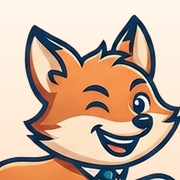
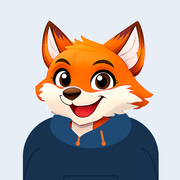
Нова маскота: Кико во тегет дуксер
Барање на Pece (25.11.2026): лисицата во дуксер (биста, без буква на градите) наместо
лисицата што трча — ист изглед на сајтот и на профилите на Facebook и Instagram.
Заменети public/kiko.png, favicon.png, apple-touch-icon.png и лисицата во og-image.png;
MASCOT_RATIO во src/brand.js. Бои, име и распоред се исти.

Claude-Session: https://claude.ai/code/session_01BRyZoi9Qj1x7wWqi3MHagk

diff --git a/src/brand.js b/src/brand.js
@@ -4,8 +4,9 @@
 //
 //  Цел на изгледот (22.11.2026): независен сајт за СПОРЕДБА — мирен, читлив,
 //  со јасни знаци на доверба. Да не личи на давател на брзи кредити.
-//  Лого: маскотата „Кико“ (лисица што трча, намигнува и се смешка — слика избрана од
-//  сопственикот) + името kikocredit.com со заоблени букви; тегет и портокалова.
+//  Лого: маскотата „Кико“ (лисица во тегет дуксер, биста — главата е од слика избрана од
+//  сопственикот, 25.11.2026; целна публика: млади) + името kikocredit.com со заоблени букви;
+//  тегет и портокалова.
 // ============================================================================
 
 export const BRAND = {
@@ -32,9 +33,9 @@ export const BRAND = {
 };
 
 // ── Лого ────────────────────────────────────────────────────────────────────
-// Маскотата е слика (public/kiko.png, проѕирна позадина). Контурата ѝ е тегет, затоа логото
-// секогаш стои на СВЕТЛА позадина. За икони се користи портретот (public/favicon.png).
-const MASCOT_RATIO = 1688 / 1243; // ширина / висина на public/kiko.png
+// Маскотата е слика (public/kiko.png, проѕирна позадина). Дуксерот е тегет, затоа логото
+// секогаш стои на СВЕТЛА позадина. За икони се користи само главата (public/favicon.png).
+const MASCOT_RATIO = 148 / 200; // ширина / висина на public/kiko.png
 export const mascotImg = (height = 46) => `<img src="/kiko.png" width="${Math.round(height * MASCOT_RATIO)}" height="${height}" alt="" decoding="async" style="display:block">`;
 
 // Името „kikocredit.com“ како контури (Nunito ExtraBold, SIL Open Font License) — исто на секој

diff --git a/CLAUDE.md b/CLAUDE.md
@@ -16,8 +16,9 @@
 
 ## Што НЕ смее да се менува без експлицитно барање
 - Изгледот „Кико" (од 22.11.2026 — сајт за **независна споредба**, да не личи на давател на
-  кредити): маскотата Кико (лисица што трча и намигнува; слика `public/kiko.png`, избрана од
-  сопственикот, секогаш на светла позадина) + името `kikocredit.com` со заоблени букви
+  кредити): маскотата Кико (лисица во тегет дуксер, биста — од 25.11.2026; слика `public/kiko.png`,
+  главата е од слика избрана од сопственикот, без буква на дуксерот, секогаш на светла
+  позадина) + името `kikocredit.com` со заоблени букви
   (`wordmarkSvg`), тегет и портокалова; бела лента горе, тегет воведен дел, светла позадина,
   бели картички со рамка и радиус 16px, боите од `BRAND` во `src/brand.js`; чекори Износ и
   рата → Понуди. Клиентскиот тек во `src/App.jsx` треба да работи исто по секоја промена.
@@ -42,7 +43,7 @@
 | `scripts/prerender.mjs` | Се извршува по `vite build`: пред-генерирана почетна, страници `/krediti/…`, `sitemap.xml`, `llms.txt`. |
 | `src/banner.js` | **Единствен извор** за банерот „100 % бесплатно“ — текст, HTML (`bannerInner`) и CSS со анимацијата (`BANNER_CSS`). **Летечки:** тесна лента (`.kb`, `position:fixed`) залепена на дното на екранот, иста на компјутер и на телефон, на почетната (`App.jsx`, двата чекора) и на секоја статична страница (`BANNER_HTML` во `prerender.mjs`, таму целата води кон калкулаторот). Изглед по барање на сопственикот: „светликав, како реклама“, без логото — тегет позадина, натпис што светка, печат „0 ден.“, ѕвездички. Лентата не смее да пречи: обвивката на страницата има `kb-pad` (празен простор на дното, па подножјето не е покриено), на телефон се трга додека се пишува во поле, при `prefers-reduced-motion` стои мирно. Тврдењата мора да се точни, како знаците на доверба. Банер за давател само со негова писмена согласност и ознака „Спонзорирано“ — прво сопственикот. |
 | `src/contact.js` | Контакт на сајтот (име + kontakt@kikocredit.com) — футер, статични страници, llms.txt. Ако се менува, смени го и `email`/`founder` во schema.org во `index.html`. |
-| `public/` | `robots.txt`, `kiko.png` (маскотата, проѕирна позадина), `favicon.png` и `apple-touch-icon.png` (портрет на маскотата), `og-image.png` (слика за споделување, 1200×630). |
+| `public/` | `robots.txt`, `kiko.png` (маскотата, проѕирна позадина, 148×200), `favicon.png` (само главата) и `apple-touch-icon.png` (биста, иста како профилната на мрежите), `og-image.png` (слика за споделување, 1200×630). Изворните слики на маскотата се на гранката `social` (`tools/assets/`). |
 | `index.html` | Meta-тагови и schema.org (WebSite, Organization). |
 | `scripts/guide-topics.json` | Ред на теми за неделниот водич (види „Постапка: неделен водич“). |
 | `scripts/guides.mjs` | Текстот на водичите `/vodici/…`. Бројките за давателите се пресметуваат од `institutions.js`; `PENALTY_RATE` (законска казнена камата) се ажурира рачно секое полугодие. |
@@ -216,3 +217,9 @@ npm run check:data   # валидација на src/institutions.js (СВТ ≤
   `accentLight` во `BRAND` (само за банерот).
 - 2026-11-22: **банерот станува летечки** (барање на Pece): лента залепена на дното на екранот,
   видлива додека посетителот скрола, наместо банер во текот на страницата.
+- 2026-11-25: **нова маскота** (барање на Pece; целна публика: млади; ист изглед на сајтот и на
+  мрежите) — Кико во тегет дуксер (биста, без буква) наместо лисицата што трча. Заменети
+  `public/kiko.png`, `favicon.png`, `apple-touch-icon.png` и лисицата во `og-image.png`;
+  `MASCOT_RATIO` во `src/brand.js`. Профилната и насловната за Facebook/Instagram се прават со
+  `tools/make_brand_images.py` на гранката `social`. Нема намигнување — изразот е од сликата на
+  сопственикот.
